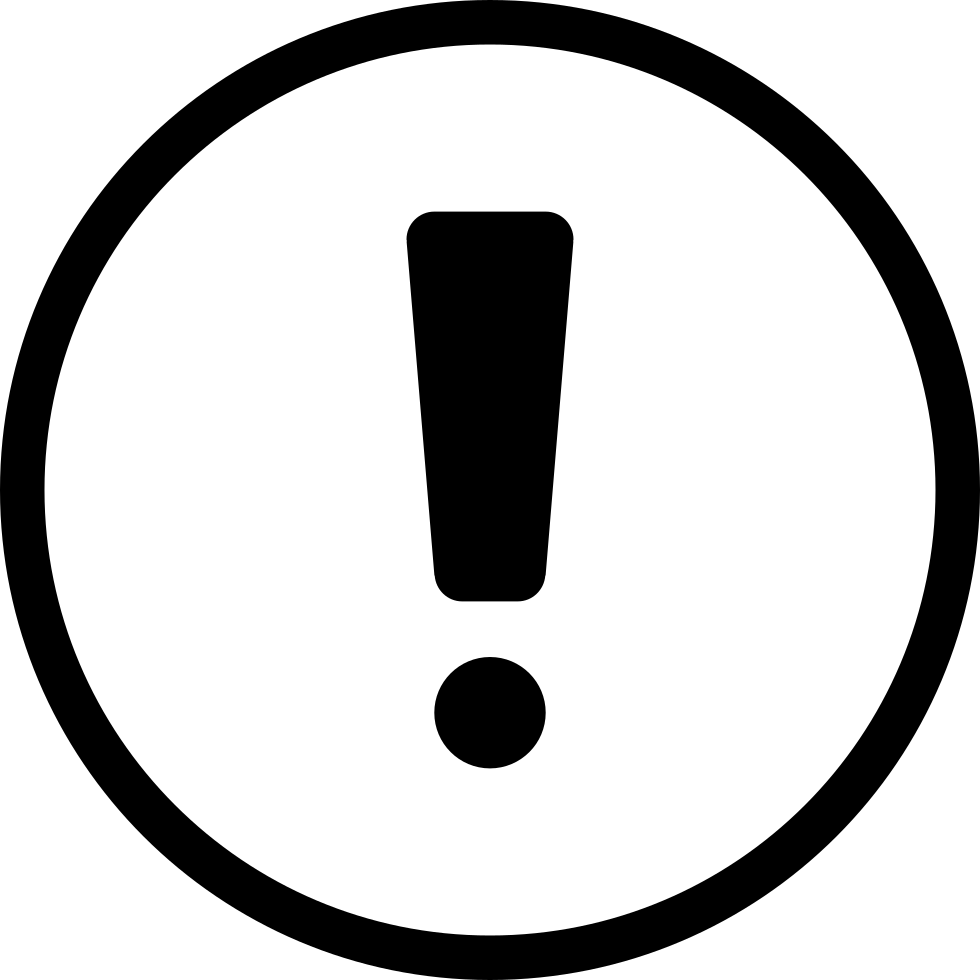
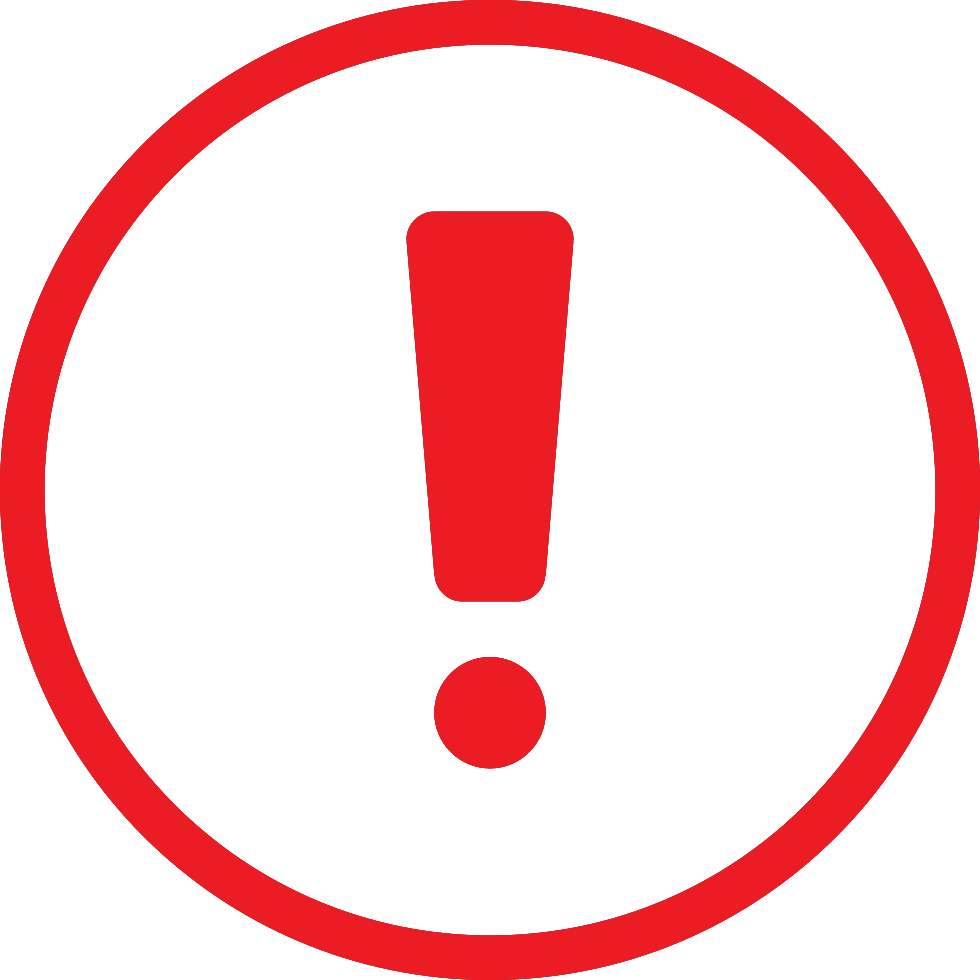
Fixed a bug where page started reloading when switching components. Changed report button color to red. Changed delete subject button alignment in administrator page. Adjusted report dialog size. Fixed layout of notifications table header name and alignment. Added border to listbox when wanting to a

Changed region(s): [[0.0, 0.0, 1.0, 1.0], [0.398, 0.2143, 0.5816, 0.6122], [0.4286, 0.6735, 0.5816, 0.7959]]

diff --git a/angular-client/src/app/show-homeworks/show-homeworks.component.ts b/angular-client/src/app/show-homeworks/show-homeworks.component.ts
@@ -61,7 +61,7 @@ export class ShowHomeworksComponent implements OnInit {
 		this.taskService.getTasksWithSubject(subjectId, this.userId)
 	        .subscribe(subjectWithTasks => {
 	        	this.showHomeworks(subjectWithTasks);
-	    });
+		});
 	}
 
 	showHomeworks(subjectWithTasks) {
@@ -87,8 +87,8 @@ export class ShowHomeworksComponent implements OnInit {
 	}
 	
 	makeNewTable(taskType) {
-		var headers = ["Ülesanne", "Tähtaeg", ""];
-		var listWidth = ["taskColWidth", "standardColWidth", "editColWidth"];
+		var headers = ["Ülesanne", "Tähtaeg", "", ""];
+		var listWidth = ["taskColWidth", "standardColWidth", "editColWidth", "editColWidth"];
 		var table: HTMLTableElement = <HTMLTableElement> document.createElement("Table");
 		table.setAttribute("id", taskType);
 		var tableHeader = document.createElement("tr");
@@ -163,9 +163,7 @@ export class ShowHomeworksComponent implements OnInit {
 		table.setAttribute("class", "tasksTable")
 
 		Object.keys(tasks).forEach(i => {
-	
 			var tr = table.insertRow();
-
 
 			var header_task = tr.insertCell();
 			var header_deadline = tr.insertCell();
@@ -215,12 +213,13 @@ export class ShowHomeworksComponent implements OnInit {
 		});
 		table.setAttribute("cellpadding", "15");
 		table.appendChild(document.createElement("br"));
+
 		document.getElementById("tableDiv").appendChild(table);
 	}
     reportHomework() {
         let dialogRef = this.dialog.open(ReportHomeworkComponent, {
 			width: '45%',
-			height: '75%'
+			height: '50%'
 		});
     }
 	editHomework() {
@@ -243,8 +242,11 @@ export class ShowHomeworksComponent implements OnInit {
 
 	deleteTable() {	
 		var parent = document.getElementById("tableDiv");
-		while (parent.firstChild) {
-			parent.removeChild(parent.firstChild);
+
+		if (parent) {
+			while (parent.firstChild) {
+				parent.removeChild(parent.firstChild);
+			}
 		}
     }
     

diff --git a/angular-client/src/app/create-subject/create-subject.component.html b/angular-client/src/app/create-subject/create-subject.component.html
@@ -5,7 +5,7 @@
 	<div style="width: 80%; margin: 0 auto">
     <div>
 					<label for="subjectName">Aine nimi</label><br>
-					<input class="form-control" placeholder="Õppeaine nimetus" #userSubjectName id="subjectName" type="text" name="subjectName" required>
+					<input class="form-control" placeholder="Õppeaine nimetus" #userSubjectName id="subjectName" autocomplete="off" type="text" name="subjectName" required>
           <div class="invalid-feedback">
             Palun sisesta aine nimi.
           </div><br>
@@ -13,13 +13,13 @@
 
     <div>
 					<label for="subjectCode">Ainekood</label><br>
-					<input class="form-control" placeholder="Õppeaine kood" #userSubjectCode id="subjectCode" type="text" name="subjectCode" required>
+					<input class="form-control" placeholder="Õppeaine kood" #userSubjectCode id="subjectCode" autocomplete="off" type="text" name="subjectCode" required>
           <div class="invalid-feedback">
             Palun sisesta ainekood.
           </div><br>
     </div>
 					<label for="lecturerName">Õppejõud</label><br>
-					<input class="form-control" placeholder="Õppejõu nimi" #userLecturerName id="lecturerName" type="text" name="lecturerName" required>
+					<input class="form-control" placeholder="Õppejõu nimi" #userLecturerName id="lecturerName" autocomplete="off" type="text" name="lecturerName" required>
           <div class="invalid-feedback">
             Palun sisesta õppejõu nimi.
           </div><br>

diff --git a/angular-client/src/app/admin-panel/admin-panel.component.ts b/angular-client/src/app/admin-panel/admin-panel.component.ts
@@ -57,11 +57,13 @@ export class AdminPanelComponent implements OnInit {
 				var showReportDetailsBtn = document.createElement("button");
 				showReportDetailsBtn.className = "btn btn-primary";
 				showReportDetailsBtn.appendChild(document.createTextNode("Kuva raportid"));
-
+				showReportDetailsBtn.setAttribute("style", "width:150px");
+				
 				var resolveReportBtn = document.createElement("button");
 				resolveReportBtn.className = "btn btn-success";
 				resolveReportBtn.appendChild(document.createTextNode("Lahenda"));
-				
+				resolveReportBtn.setAttribute("style", "width:150px");
+
 				var blockAccessBtn = document.createElement("button");
 				if (data[key].isBlocked == 1) {
 					blockAccessBtn.className = "btn btn-success";
@@ -70,6 +72,7 @@ export class AdminPanelComponent implements OnInit {
 					blockAccessBtn.className = "btn btn-danger";
 					blockAccessBtn.appendChild(document.createTextNode("Blokeeri"));
 				}
+				blockAccessBtn.setAttribute("style", "width:150px");
 				
 				
 

diff --git a/angular-client/src/app/add-subject/add-subject.component.html b/angular-client/src/app/add-subject/add-subject.component.html
@@ -4,13 +4,13 @@
     <div style="width:100%;">
         <div style="width: 80%; margin: 0 auto">
             <label>Otsi ainet</label>
-            <input placeholder="Otsi ainet..." #userSearch type="text" style="width:100%;">
+            <input placeholder="Otsi ainet..." #userSearch type="text" autocomplete="off" style="width:100%;">
             <button class="btn btn-secondary" type="submit"
                 (click)="searchSubject(userSearch.value)"
                 name="Lisa aine" style="width:100%; margin-top: 20px;">Otsi
             </button>
             <nav style="margin-top: 20px; margin-bottom: 20px; width:100%">
-                <ul id="list"></ul>
+                <ul id="list" style="border: 1px solid rgb(185, 185, 185)"></ul>
             </nav>
             <div id="addButtonDiv" style="width: 100%;"></div>
         </div>

diff --git a/angular-client/src/app/notifications/notifications.component.ts b/angular-client/src/app/notifications/notifications.component.ts
@@ -21,10 +21,11 @@ export class NotificationsComponent implements OnInit {
 		var header_message = document.createElement("th");
 		var header_deadline = document.createElement("th");
 		header_message.appendChild(document.createTextNode("Teavitus"));
-		header_deadline.appendChild(document.createTextNode("Tähtaeg"));
+		header_deadline.appendChild(document.createTextNode("Aegub"));
 
 		header_message.setAttribute("class", "tasksTableHeader");
 		header_deadline.setAttribute("class", "tasksTableHeader");
+		header_deadline.className += " columnCenteredText";
 
 		header_message.setAttribute("id", "messageColWidth");
 		header_deadline.setAttribute("id", "deadlineColWidth");

diff --git a/angular-client/src/app/report-homework/report-homework.component.html b/angular-client/src/app/report-homework/report-homework.component.html
@@ -5,7 +5,7 @@
           <div style="width: 80%; margin: 0 auto">
               <form  #addTaskForm="ngForm" class="needs-validation" novalidate id="addTaskForm">
                   <div>
-                      <label for="description">Raport</label><br>
+                      <label for="description">Palun kirjeldage rikkumist</label><br>
                         <textarea class="form-control" style="width:100%" #userReport rows="6" id="description" type="text" name="description" required></textarea>
                       <div class="invalid-feedback">
                           Palun sisesta raport antud ülesande kohta.

diff --git a/angular-client/src/app/eap-calculator/eap-calculator.component.ts b/angular-client/src/app/eap-calculator/eap-calculator.component.ts
@@ -36,15 +36,6 @@ export class EapCalculatorComponent implements OnInit {
 	var table : HTMLTableElement = <HTMLTableElement> document.getElementById("tasksTable");
 	if (table) table.parentNode.removeChild(table);
 
-	const combined = Observable.forkJoin(
-		this.subjectService.getUserEapSubjects(),
-		this.subjectService.getAverageGrade()
-	);
-	
-	combined.subscribe(data => {
-		console.log(data);
-	});
-
 	var eapSubjects = this.subjectService.getUserEapSubjects().subscribe(data => {
 		var eapSubjectDiv = document.getElementById("eapSubjectsDiv");
 		var headers = ["Aine", "Hinne", "EAP"];

diff --git a/angular-client/src/app/settings/settings.component.ts b/angular-client/src/app/settings/settings.component.ts
@@ -64,7 +64,7 @@ export class SettingsComponent implements OnInit {
     
     getHomeworkNamesAndIDs(subjects) {
 	    for (let i = 0; i < subjects.length; i++) {
-	        this.subjects.push(subjects[i].name);
+	        this.subjects.push(subjects[i].name + " (" + subjects[i].lecturer_name + ")");
 	        this.subjectIDs.push(subjects[i].id)
 		}
     }

diff --git a/angular-client/src/app/settings/settings.component.html b/angular-client/src/app/settings/settings.component.html
@@ -32,7 +32,7 @@
     <div>
     </div>
     <h4 style="margin-top: 45px;">Kustuta aineid tunniplaanist</h4><br>
-    <div>
+    <div style="text-align: right;">
         <label for="taskID">Vali aine</label><br>
         <select class="form-control" #userChoice id="subjectID" required>
             

diff --git a/angular-client/src/app/tasks/tasks.component.html b/angular-client/src/app/tasks/tasks.component.html
@@ -1,3 +1,5 @@
 <div class="jumbotron">
-    <div id="tableDiv"></div>    
+    <div id="tableDiv">
+        <div id="headerDiv"></div>
+    </div>    
 </div>
